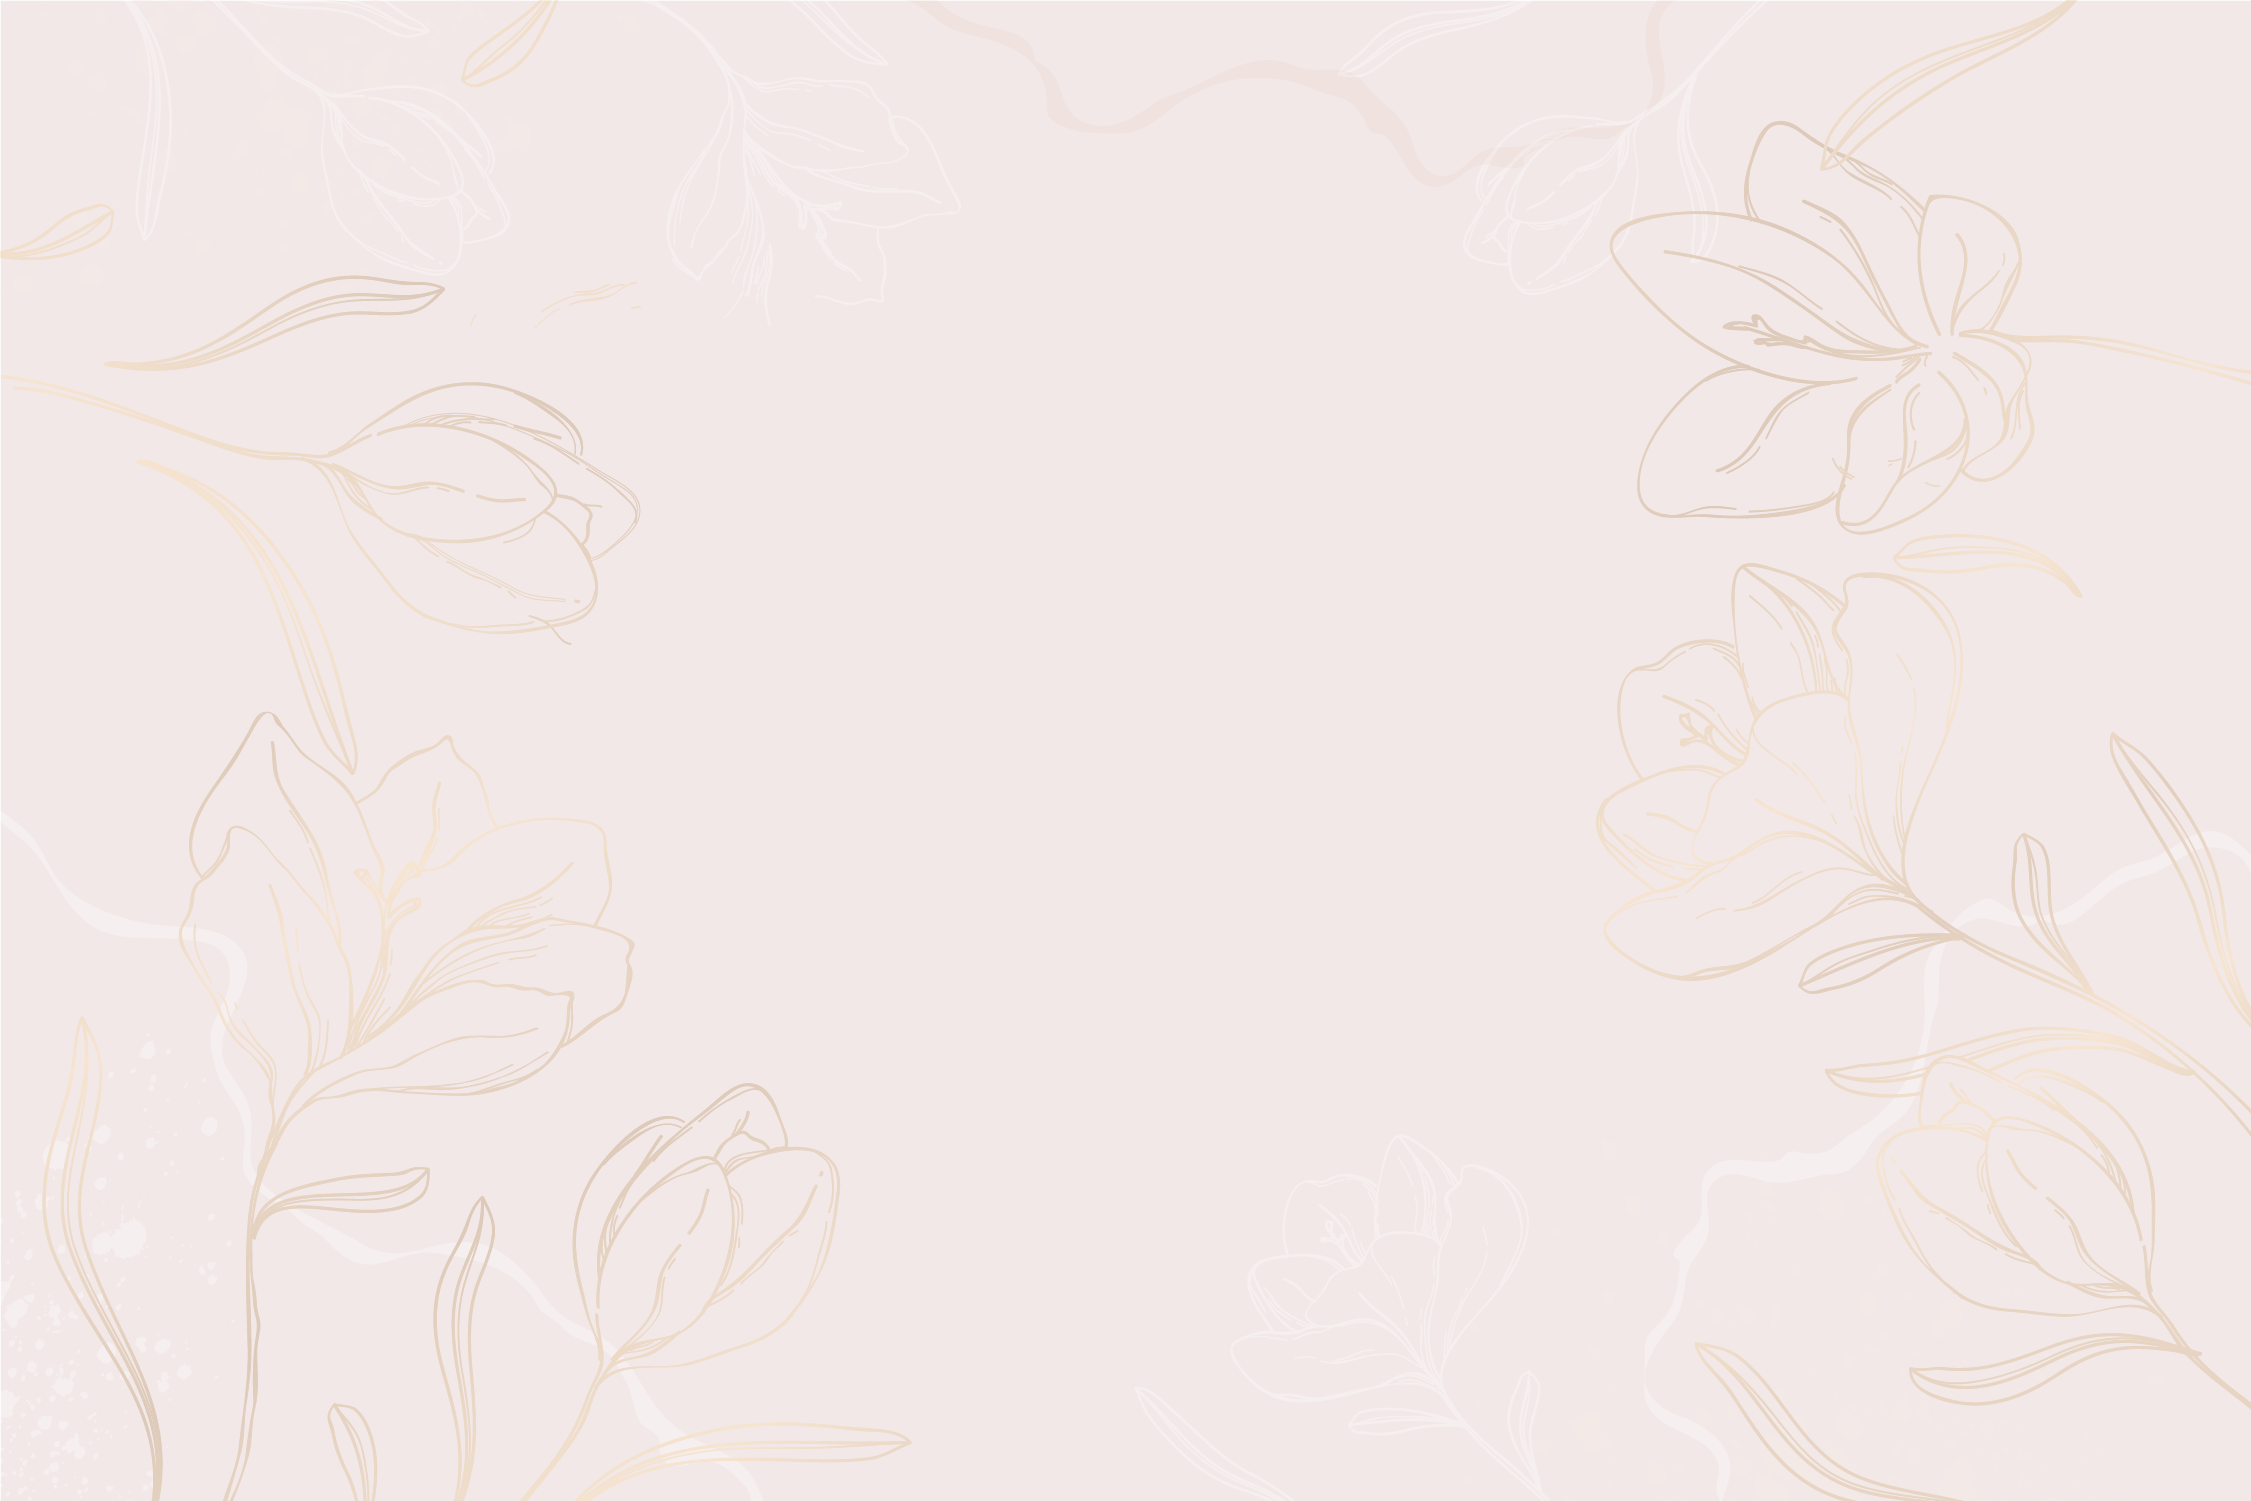
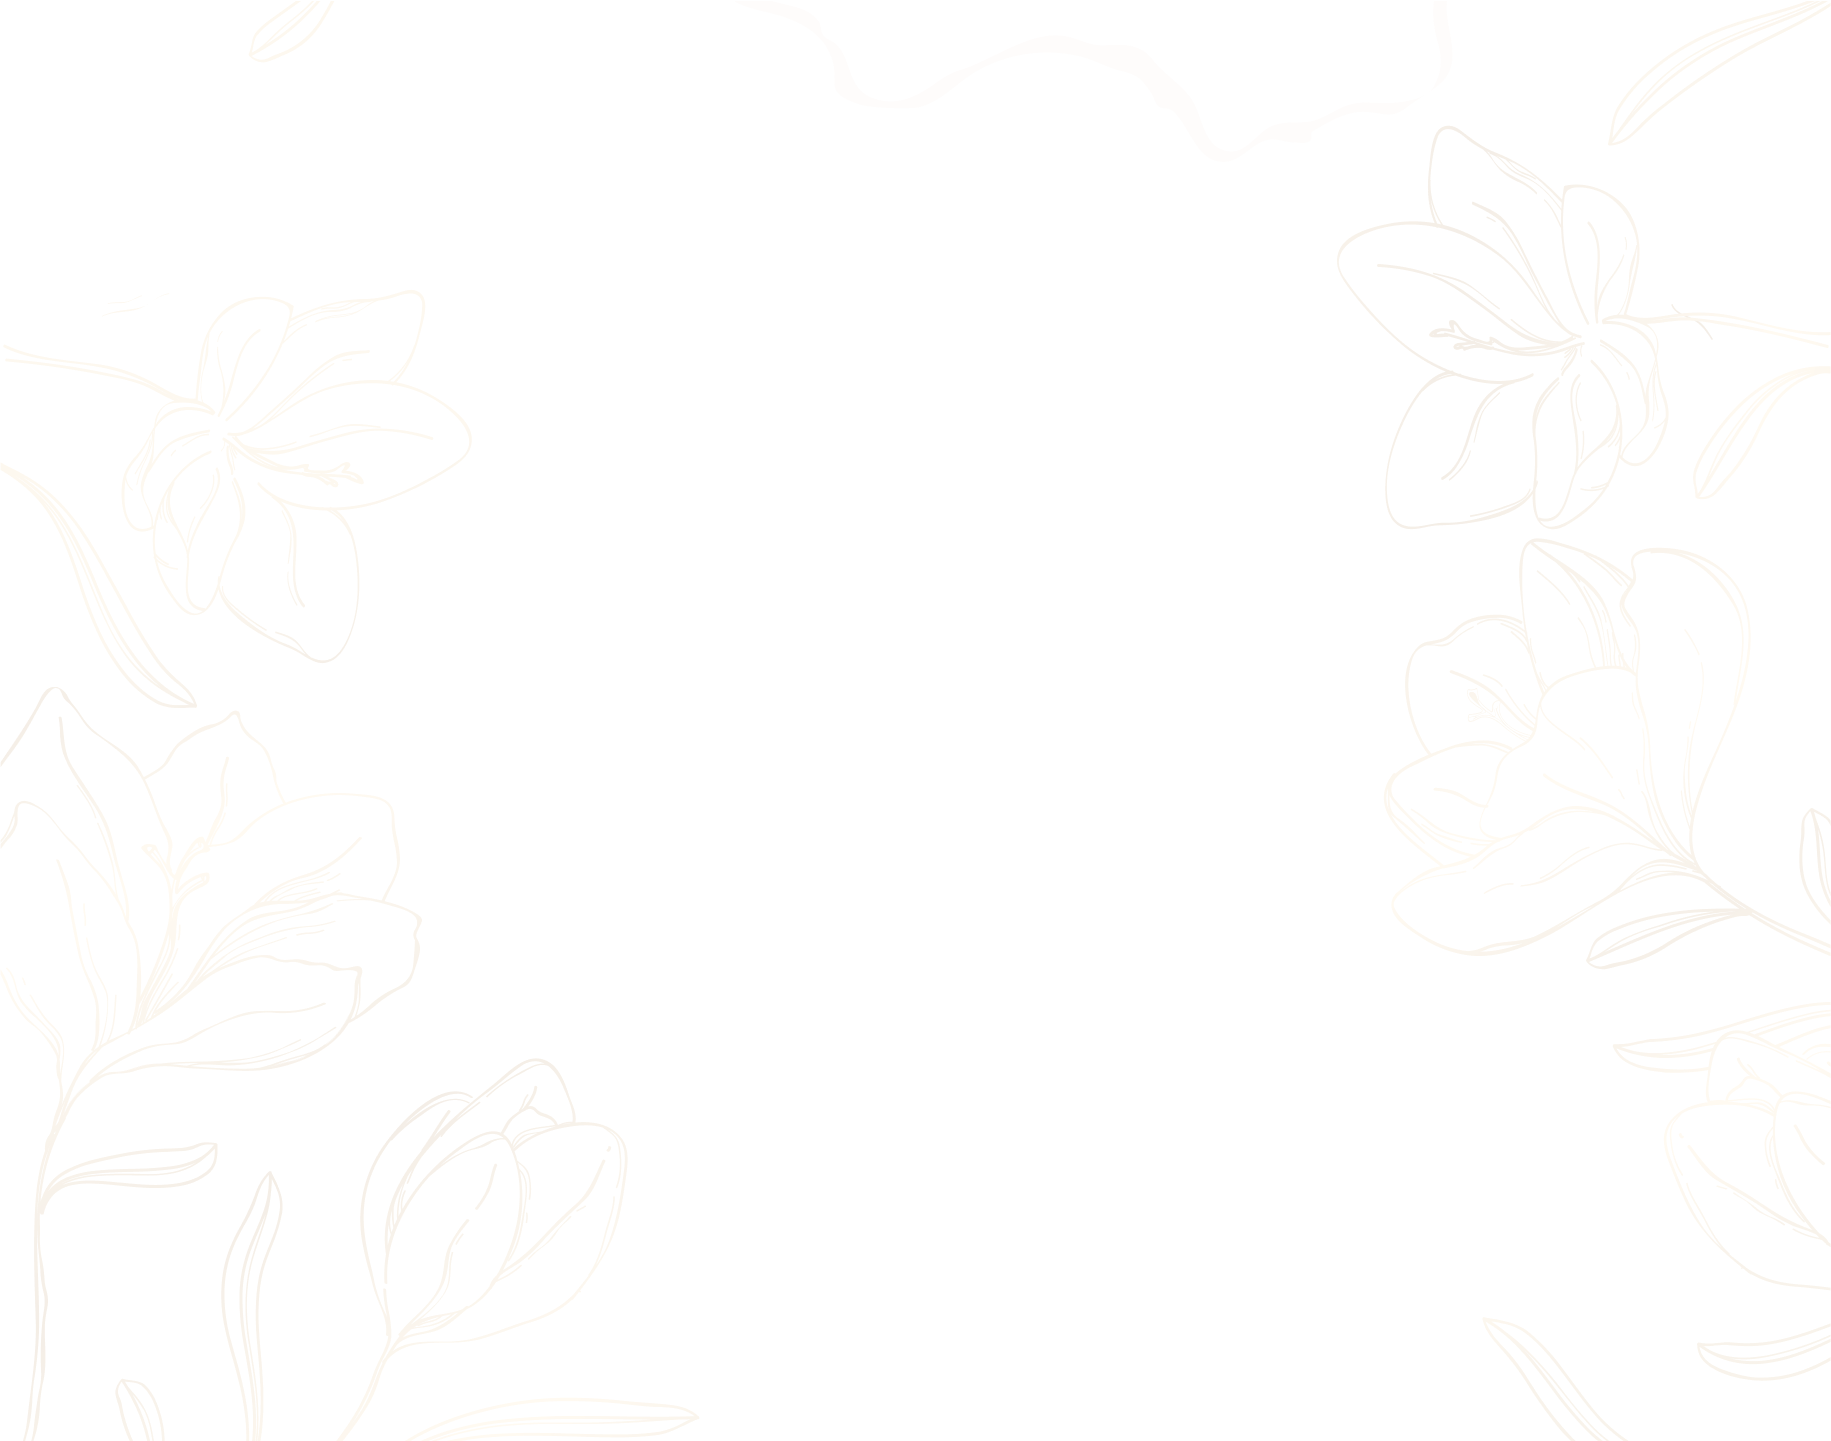
Update post layout styling for improved visual consistency; adjust background colors for light and dark modes and replace background image.

diff --git a/pages/post/[slug].vue b/pages/post/[slug].vue
@@ -69,7 +69,7 @@ onMounted(() => {
 </script>
 
 <template>
-  <div class="bg-post dark:bg-post-dark min-h-screen pt-20 transition-colors duration-300"> 
+  <div class="bg-post min-h-screen pt-20 transition-colors duration-300"> 
     <main
       v-if="post"
       ref="mainContent"
@@ -194,6 +194,7 @@ onMounted(() => {
 }
 
 .bg-post {
+  background-color: #f1e7e7;
   background-image: url('/images/blog-bg3.png');
   background-size: cover;
   background-position: center;
@@ -202,8 +203,9 @@ onMounted(() => {
   border-bottom-right-radius: 60px;
 }
 
-.dark .bg-post-dark {
-  background-image: linear-gradient(rgba(0, 0, 0, 0.7), rgba(0, 0, 0, 0.7)), url('/images/blog-bg3.png');
+.dark .bg-post {
+  background-color: #111111;
+  background-image: url('/images/blog-bg3.png');
   background-size: cover;
   background-position: center;
   background-attachment: fixed;
@@ -213,7 +215,7 @@ onMounted(() => {
 
 @media (max-width: 768px) {
   .bg-post,
-  .dark .bg-post-dark {
+  .dark .bg-post {
     border-bottom-left-radius: 30px;
     border-bottom-right-radius: 30px;
   }
